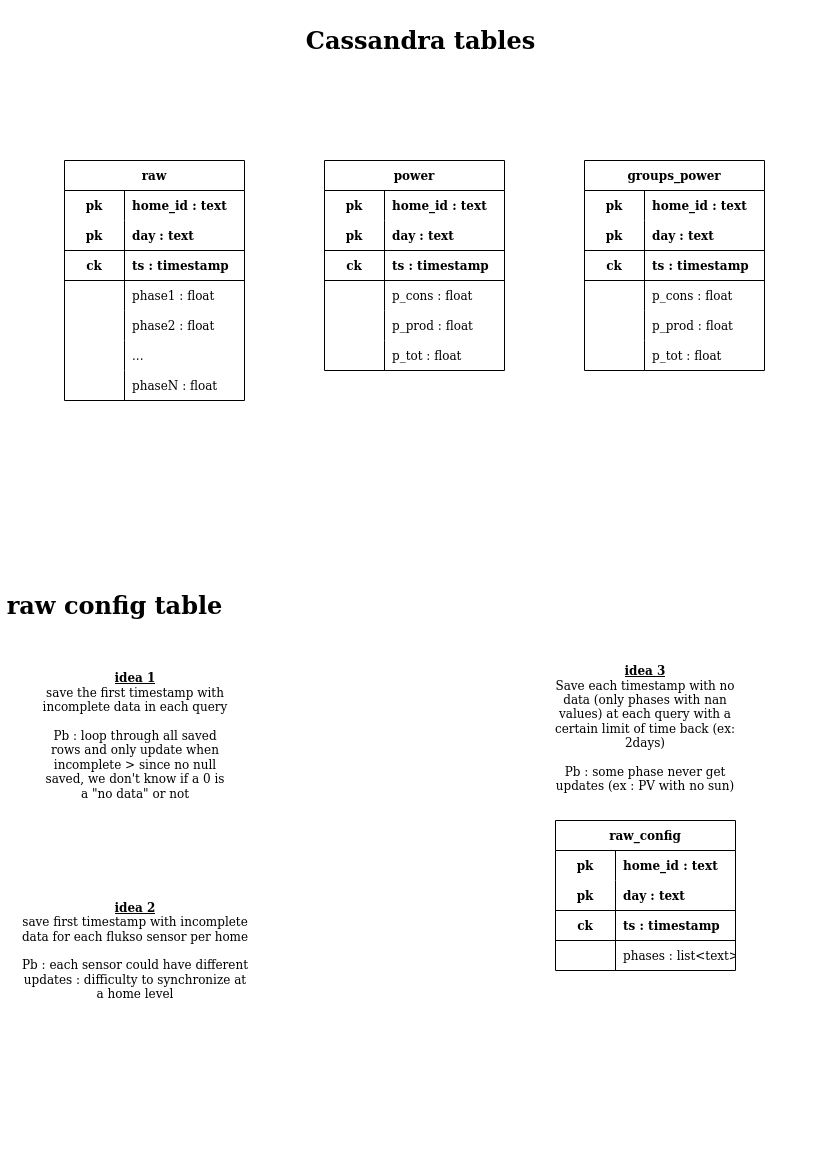
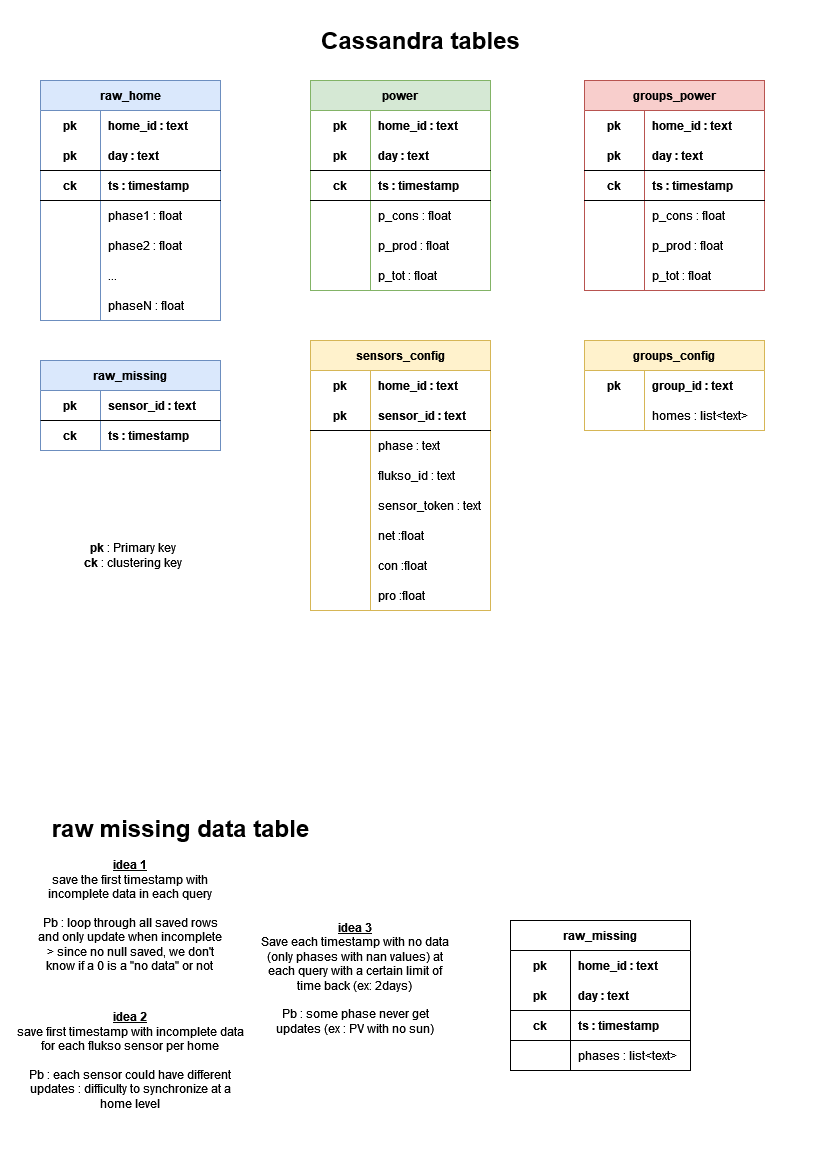
doc : update cassandra tables + backend computations using sensors_config from cassandra

diff --git a/home.py b/home.py
@@ -13,7 +13,8 @@ import tmpo
 class Home:
 
     def __init__(self, sensors_info, since, since_timing, to_timing, home_id, sensors):
-        self.sensors_info = sensors_info.loc[sensors_info["home_ID"] == home_id]
+        # self.sensors_info = sensors_info.loc[sensors_info["home_ID"] == home_id]
+        self.sensors_info = sensors_info
         self.sensors = sensors
         self.since = since
         self.since_timing = since_timing
@@ -80,12 +81,9 @@ class Home:
     def getColumnsNames(self):
         """ 
         get columns names of the form : 
-        flukso_id phase1, flukso_id phase2, ...
+        [flukso sensor1, flukso sensor2, ...]
         """ 
         col_names = []
-        # for phase, row in self.sensors_info.iterrows():
-        #     name = "{} {}".format(row["flukso_id"], phase)
-        #     col_names.append(name)
 
         for sensor in self.sensors:
             col_names.append(sensor.getSensorID())
@@ -156,21 +154,22 @@ class Home:
                                     self.raw_df.index,
                                     ["P_cons", "P_prod", "P_tot"])
 
-        for i, phase in enumerate(self.sensors_info.index):
-            fluksoid_phase = self.columns_names[i]
-            # c = self.sensors_info.loc[phase]["con"]
-            p = self.sensors_info.loc[phase]["pro"]
-            n = self.sensors_info.loc[phase]["net"]
+        for i, sid in enumerate(self.sensors_info.index):
+            # sid = self.columns_names[i]
+            # c = self.sensors_info.loc[sid]["con"]
+            p = self.sensors_info.loc[sid]["pro"]
+            n = self.sensors_info.loc[sid]["net"]
 
-            # cons_prod_df["P_cons"] = cons_prod_df["P_cons"] + c * self.raw_df[fluksoid_phase]
-            cons_prod_df["P_prod"] = cons_prod_df["P_prod"] + p * self.raw_df[fluksoid_phase]
-            cons_prod_df["P_tot"] = cons_prod_df["P_tot"] + n * self.raw_df[fluksoid_phase]
+            # cons_prod_df["P_cons"] = cons_prod_df["P_cons"] + c * self.raw_df[sid]
+            cons_prod_df["P_prod"] = cons_prod_df["P_prod"] + p * self.raw_df[sid]
+            cons_prod_df["P_tot"] = cons_prod_df["P_tot"] + n * self.raw_df[sid]
 
         cons_prod_df["P_cons"] = cons_prod_df["P_tot"] - cons_prod_df["P_prod"]
 
         cons_prod_df = cons_prod_df.round(1)  # round all column values with 2 decimals
 
         return cons_prod_df
+
 
     def getColNamesWithID(self, df, home_id):
         col_names = df.columns
@@ -180,6 +179,7 @@ class Home:
 
         return new_col_names
 
+
     def appendFluksoData(self, raw_df, home_id):
         # print(len(self.raw_df), len(raw_df))
 
@@ -187,6 +187,7 @@ class Home:
             self.raw_df = self.raw_df.rename(self.getColNamesWithID(self.raw_df, self.home_id), axis=1)
         raw_df = raw_df.rename(self.getColNamesWithID(raw_df, home_id), axis=1)
         self.raw_df = self.raw_df.join(raw_df)
+
 
     def addConsProd(self, cons_prod_df):
         self.cons_prod_df = self.cons_prod_df.add(cons_prod_df, fill_value=0)

diff --git a/syncRawFluksoData.py b/syncRawFluksoData.py
@@ -128,15 +128,15 @@ def getMissingRaw(session, ids, table_name, default_timing, now):
 def generateHomes(tmpo_session, sensors_config, since, since_timing, to_timing, home_ids, homes_missing, mode):
 	homes = {}
 
-	for hid in home_ids:
+	for hid, home_sensors in sensors_config:
 		print("========================= HOME {} =====================".format(hid))
-		home_sensors = sensors_config.loc[sensors_config["home_ID"] == hid]
+		# home_sensors = sensors_config.loc[sensors_config["home_ID"] == hid]
 		sensors = [] # list of Sensor objects
 		if mode == "automatic":
 			since_timing = homes_missing[hid]["first_ts"]
-		for i in range(len(home_sensors)):
-			sensors.append(Sensor(tmpo_session, home_sensors.flukso_id[i], home_sensors.sensor_id[i], 
-							since_timing, to_timing))
+		# for i in range(len(home_sensors)):
+		for sid, row in home_sensors.iterrows():
+			sensors.append(Sensor(tmpo_session, row["flukso_id"], sid, since_timing, to_timing))
 		home = Home(sensors_config, since, since_timing, to_timing, hid, sensors)
 		homes[hid] = home
 		# print(home.getRawDF().head(10))
@@ -394,7 +394,7 @@ def main():
 	print("Number of Homes : ", nb_homes)
 	print("Number of Fluksos : ", len(sensors_config))
 	print("groups : ", groups_config)
-	"""
+	
 	# =========================================================
 
 	# STEP 1 : get last registered timestamp in raw table
@@ -409,28 +409,28 @@ def main():
 
 	# STEP 3 : generate homes and grouped homes
 	print("Generating homes data and getting Flukso data...")
-	homes = generateHomes(tmpo_session, sensors, since, start_timing, to_timing, home_ids, homes_missing, mode)
-	grouped_homes = generateGroupedHomes(homes, groups)
-
+	homes = generateHomes(tmpo_session, sensors_config, since, start_timing, to_timing, home_ids, homes_missing, mode)
+	grouped_homes = generateGroupedHomes(homes, groups_config)
+	
 	saveFluksoDataToCsv(homes.values())
 	# saveFluksoDataToCsv(grouped_homes.values())
 
 	# =========================================================
 
 	# STEP 4 : save raw flukso data in cassandra
-	saveRawToCassandra2(cassandra_session, homes, homes_missing, "raw")
+	# saveRawToCassandra2(cassandra_session, homes, homes_missing, "raw")
 
 	# STEP 5 : save missing raw data in cassandra
-	saveIncompleteRows(cassandra_session, to_timing, homes, "raw_missing")
+	# saveIncompleteRows(cassandra_session, to_timing, homes, "raw_missing")
 
 	# STEP 6 : save power flukso data in cassandra
-	cp.savePowerDataToCassandra(cassandra_session, homes, "power")
+	# cp.savePowerDataToCassandra(cassandra_session, homes, "power")
 	
 	# STEP 7 : save groups of power flukso data in cassandra
-	cp.savePowerDataToCassandra(cassandra_session, grouped_homes, "groups_power")
+	# cp.savePowerDataToCassandra(cassandra_session, grouped_homes, "groups_power")
 
 	# =========================================================
-	"""
+	
 
 	end = time.time() - begin 
 	print("> Processing time : {}.".format(timedelta(seconds=end)))
